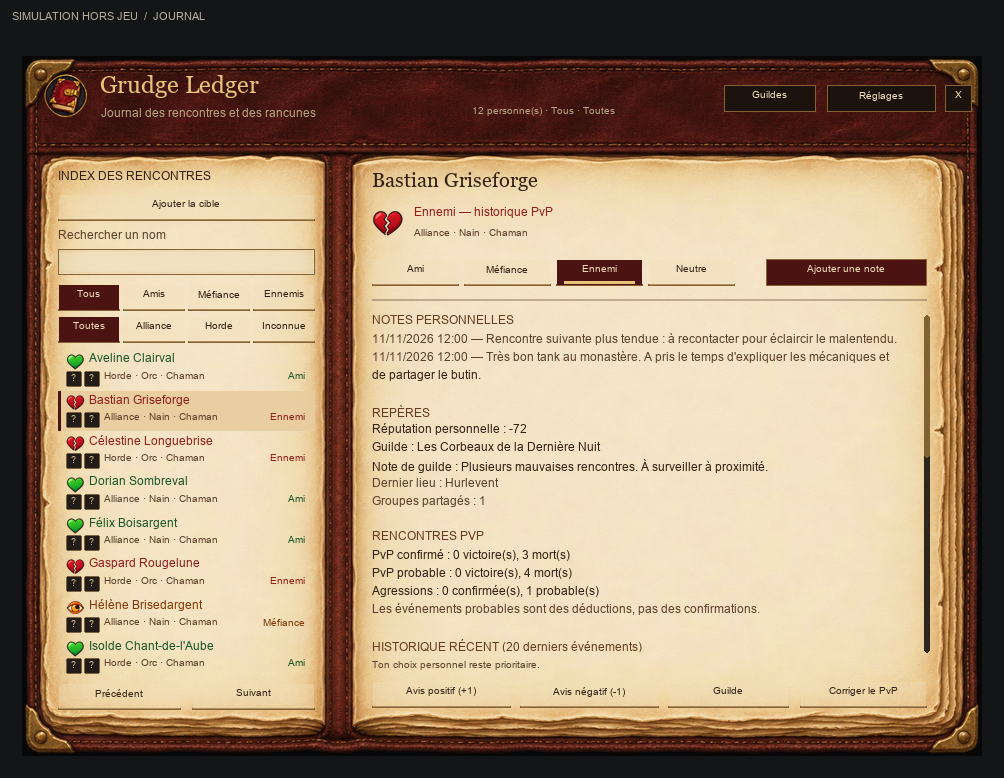
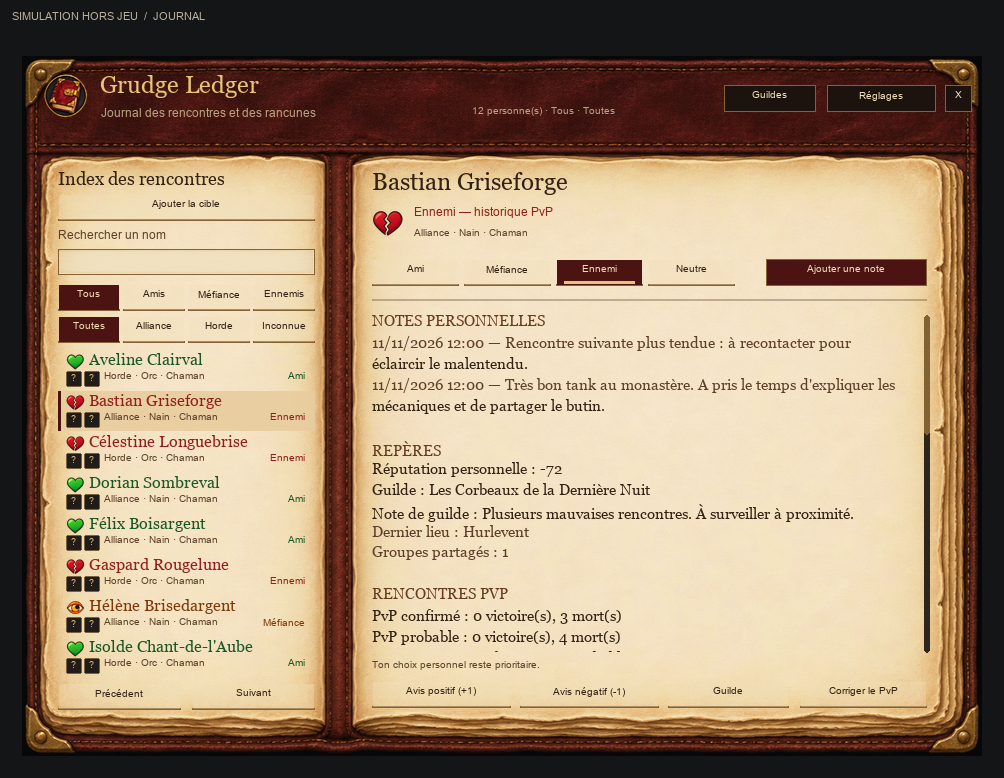
Use native calligraphic fonts for journal titles, names and notes

diff --git a/visual-qa/render.py b/visual-qa/render.py
@@ -32,6 +32,7 @@ def fontsize(obj):
     obj = str(obj or "")
     fancy = re.search(r"Fancy(\d+)Font", obj)
     if fancy: return int(fancy.group(1))
+    if obj == "QuestFont_Large": return 15
     if "Huge" in obj: return 20
     if "Large" in obj: return 16
     if "Small" in obj: return 10
@@ -66,8 +67,9 @@ def wrap(text, width, size, title=False, wordwrap=True):
     return result or [""]
 
 
-def textheight(text, width, size, spacing=0):
-    return len(wrap(text, width, size)) * (size + 2) + max(0, len(wrap(text, width, size)) - 1) * spacing
+def textheight(text, width, size, spacing=0, title=False):
+    count = len(wrap(text, width, size, title))
+    return count * (size + 2) + max(0, count - 1) * spacing
 
 
 def convert(value):
@@ -140,7 +142,8 @@ class Layout:
             return ((eq[0][1] - eq[0][0] * length) if eq else default), length
         x, w = solve(equations[0], w, pb[0])
         if r["kind"] == "FontString" and r.get("height") is None:
-            lines = wrap(r.get("text"), w / max(scale, .01), size, wordwrap=r.get("wordWrap", True))
+            title = any(style in str(r.get("fontObject") or r.get("template") or "") for style in ("Large", "Fancy"))
+            lines = wrap(r.get("text"), w / max(scale, .01), size, title, wordwrap=r.get("wordWrap", True))
             if r.get("maxLines"): lines = lines[:int(r["maxLines"])]
             h = (len(lines) * (size + 2) + max(0, len(lines) - 1) * r.get("spacing", 0)) * scale
         y, h = solve(equations[1], h, pb[1])
@@ -353,8 +356,8 @@ def main():
     g=lua.globals();g.TEST_ROOT=ADDON.as_posix();g.TEST_WORK=WORK.as_posix()
     g.QA_FontSize=fontsize
     g.QA_TextHeight=textheight
-    g.QA_TextWidth=lambda text,size: font(size).getlength(plaintext(text))
-    g.QA_TextLines=lambda text,width,size: len(wrap(text,width,size))
+    g.QA_TextWidth=lambda text,size,title=False: font(size,title).getlength(plaintext(text))
+    g.QA_TextLines=lambda text,width,size,title=False: len(wrap(text,width,size,title))
     lua.execute((BASE/"capture.lua").read_text(encoding="utf-8"))
     views=["journal","journal-no-paper","journal-no-book","journal-horde-friends","journal-empty","journal-small","journal-small-bottom","guilds","note","settings","corrections","diagnostic","minimap","minimap-large","alert","alert-probable","alert-long-guild"]
     images, report, snapshots=[],{},{}

diff --git a/README.md b/README.md
@@ -30,9 +30,11 @@ It is a small hobby project, shared as it is, and it may evolve with playtesting
 
 The journal is an open, aged book with two parchment pages, stitched red leather, layered page edges and restrained brass corners. The index keeps a relationship icon, explicit label and dark readable ink. Classification and note-taking stay at the top; less frequent actions sit at the foot of the page. Its visual direction was inspired by Overlord, using original artwork. This preview is rendered from the actual Lua layout outside WoW, with synthetic records and approximated native fonts/icons.
 
+Titles, names and journal text use WoW’s native calligraphic font families (Morpheus for the Latin alphabet). Notes use a 15-pixel reading/editing font; compact controls and small labels retain their regular font.
+
 ## Install
 
-1. Download **`GrudgeLedger-0.4.0.zip`** from [Releases](https://github.com/Aizakira/GrudgeLedger/releases/latest).
+1. Download **`GrudgeLedger-0.4.1.zip`** from [Releases](https://github.com/Aizakira/GrudgeLedger/releases/latest).
 2. Extract the `GrudgeLedger` folder into your Forever client's `Interface/AddOns` folder. The final path must be `Interface/AddOns/GrudgeLedger/GrudgeLedger.toc`.
 3. Restart WoW and enable Grudge Ledger in the addon list.
 
@@ -84,7 +86,7 @@ python tests/run_tests.py
 GitHub Actions runs the same suite on Linux and Windows. See [DEVELOPMENT.txt](DEVELOPMENT.txt) for the optional offline UI renderer. To build an installable archive from the repository root:
 
 ```sh
-python -m zipfile -c GrudgeLedger-0.4.0.zip GrudgeLedger
+python -m zipfile -c GrudgeLedger-0.4.1.zip GrudgeLedger
 ```
 
 Issues and pull requests in French or English are welcome. For bugs, include the addon/client versions, steps to reproduce, expected and actual behavior, and a screenshot with personal information hidden if useful. Keep fixes focused and run the existing tests. Please do not submit anyone's personal journal.

diff --git a/README.fr.md b/README.fr.md
@@ -32,9 +32,11 @@ C'est un petit projet personnel, partagé tel quel. Il pourra évoluer avec les 
 
 Le journal est un livre ouvert : deux pages de parchemin vieilli, du cuir rouge cousu, des tranches de feuilles et de fines ferrures. L’index conserve les icônes et les libellés de relation, avec une encre sombre lisible. Le classement et la prise de notes restent en haut ; les actions moins fréquentes passent au pied de la page. L’inspiration vient d’Overlord, avec des illustrations originales. Cet aperçu provient du véritable agencement Lua, simulé hors jeu avec des personnages fictifs ; les polices et icônes natives sont approximées.
 
+Les titres, les noms et le texte de la fiche utilisent désormais les familles calligraphiques natives de WoW (Morpheus pour l’alphabet latin). Les notes se lisent et se saisissent en 15 pixels ; les commandes et petites indications conservent une police compacte.
+
 ## Installation et premiers pas
 
-1. Télécharger **`GrudgeLedger-0.4.0.zip`** dans les [versions publiées](https://github.com/Aizakira/GrudgeLedger/releases/latest).
+1. Télécharger **`GrudgeLedger-0.4.1.zip`** dans les [versions publiées](https://github.com/Aizakira/GrudgeLedger/releases/latest).
 2. Extraire le dossier `GrudgeLedger` dans `Interface/AddOns` du client Forever. Le fichier doit se trouver ici : `Interface/AddOns/GrudgeLedger/GrudgeLedger.toc`.
 3. Redémarrer WoW et activer Grudge Ledger dans la liste des addons.
 
@@ -92,7 +94,7 @@ python tests/run_tests.py
 Les mêmes tests sont exécutés sur Linux et Windows par GitHub Actions. Voir [DEVELOPMENT.txt](DEVELOPMENT.txt) pour le rendu d'interface facultatif hors jeu. Depuis la racine du dépôt, cette commande crée une archive installable :
 
 ```sh
-python -m zipfile -c GrudgeLedger-0.4.0.zip GrudgeLedger
+python -m zipfile -c GrudgeLedger-0.4.1.zip GrudgeLedger
 ```
 
 ## Licence et crédits
